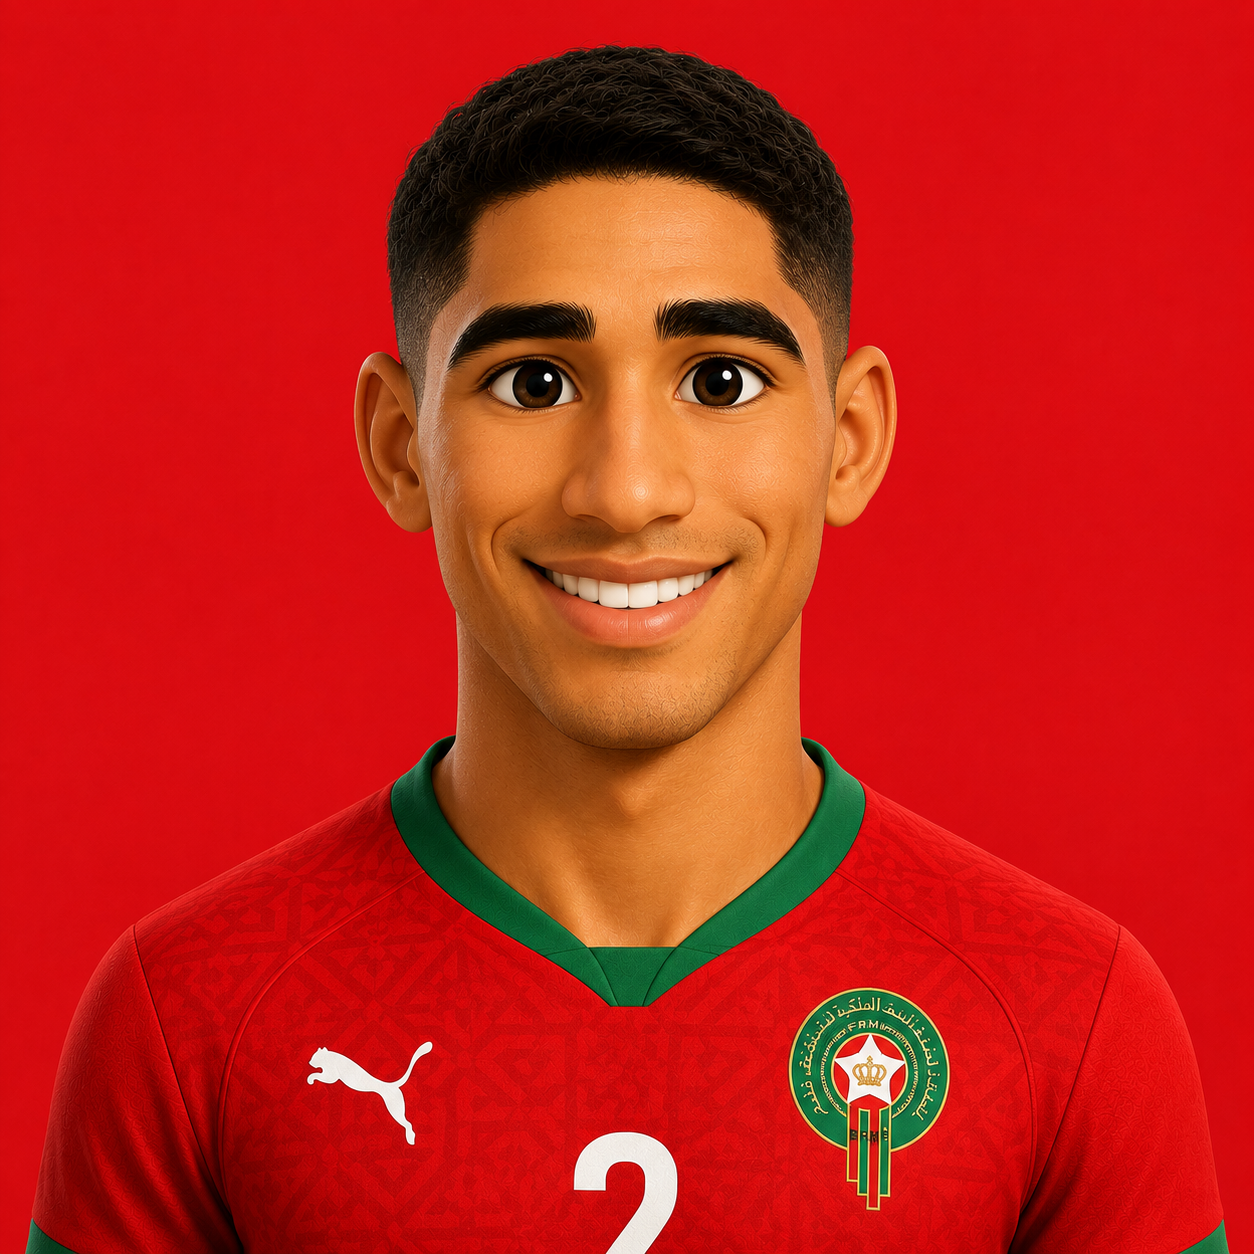
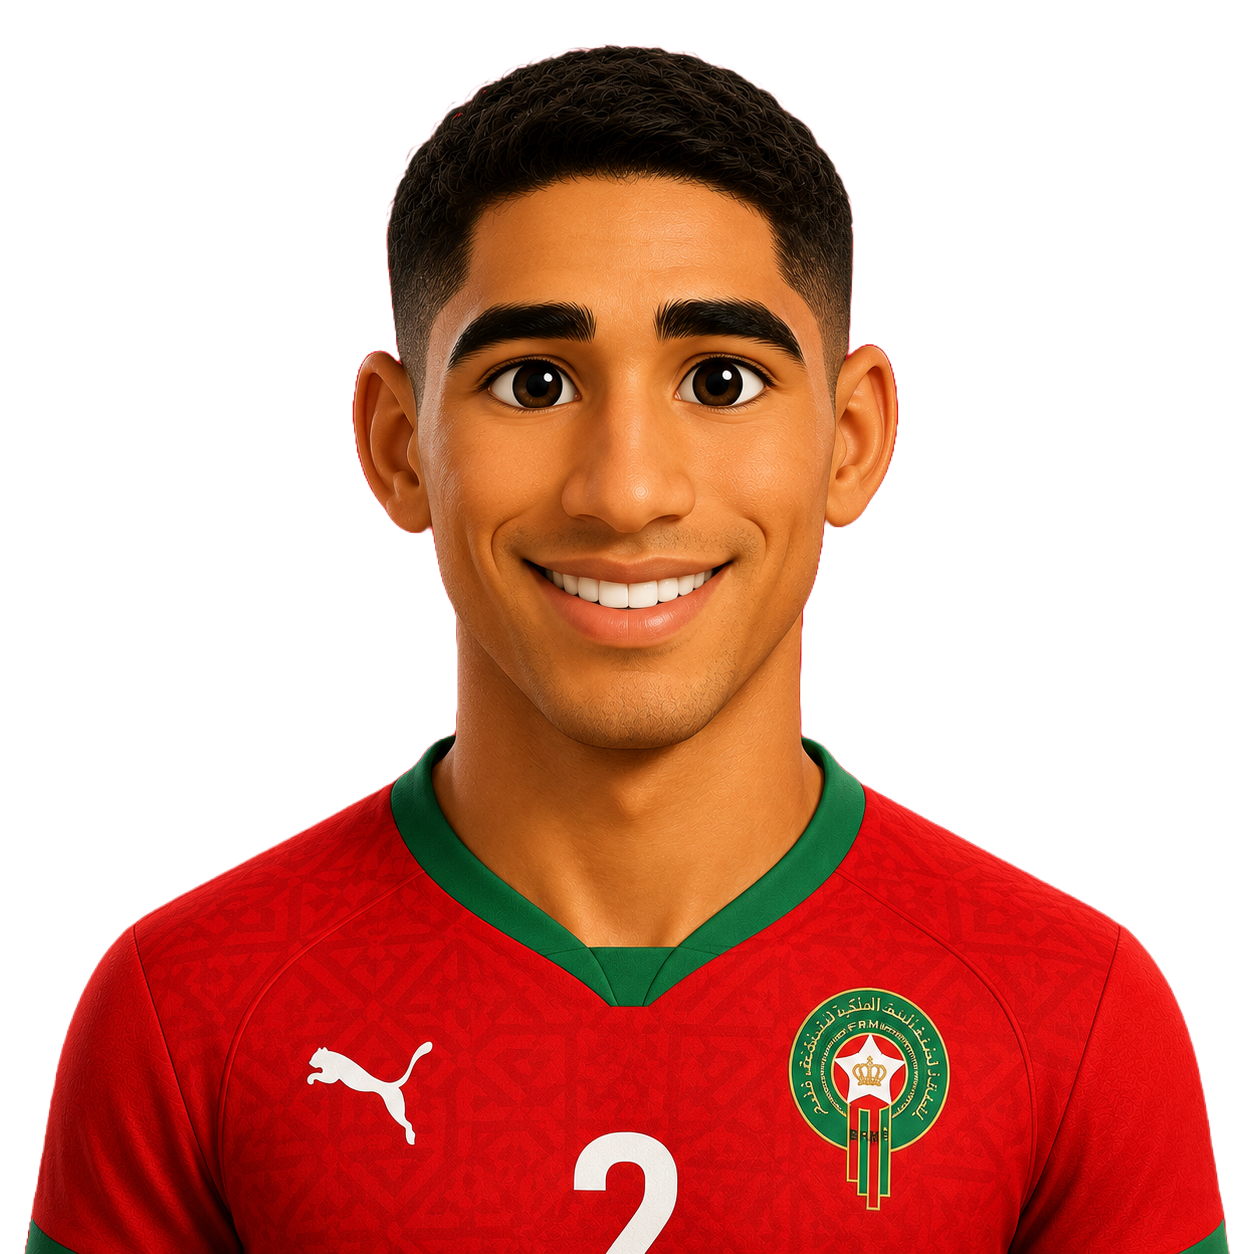
fix : 이미지 저장 문제 수정

diff --git a/src/components/ResultCard.jsx b/src/components/ResultCard.jsx
@@ -19,7 +19,9 @@ import { defaultResultCopy, generateResultCopy } from '../utils/claudeApi.js';
 
 function isMobile() {
   if (typeof navigator === 'undefined') return false;
-  return /Android|webOS|iPhone|iPad|iPod|Opera Mini|IEMobile/i.test(navigator.userAgent);
+  return /Android|webOS|iPhone|iPad|iPod|Opera Mini|IEMobile/i.test(
+    navigator.userAgent
+  );
 }
 
 function waitForImages(root) {
@@ -31,8 +33,8 @@ function waitForImages(root) {
         : new Promise((resolve) => {
             img.addEventListener('load', resolve, { once: true });
             img.addEventListener('error', resolve, { once: true });
-          }),
-    ),
+          })
+    )
   );
 }
 
@@ -40,8 +42,12 @@ export default function ResultCard({ result, answers, onRestart }) {
   const { faceMatch, styleMatch, isPerfectMatch, userPhotoUrl } = result;
   const nickname = TYPE_NICKNAME[styleMatch.type] || '월드컵의 별';
   const theme = TYPE_THEME[styleMatch.type] || TYPE_THEME.midfielder;
-  const heroGradient = COUNTRY_THEME[styleMatch.player.country] || theme.gradient;
-  const hashtags = useMemo(() => getFunHashtags(styleMatch.player), [styleMatch.player]);
+  const heroGradient =
+    COUNTRY_THEME[styleMatch.player.country] || theme.gradient;
+  const hashtags = useMemo(
+    () => getFunHashtags(styleMatch.player),
+    [styleMatch.player]
+  );
   const cardRef = useRef(null);
   const [busy, setBusy] = useState(null);
   const [previewUrl, setPreviewUrl] = useState(null);
@@ -55,12 +61,13 @@ export default function ResultCard({ result, answers, onRestart }) {
 
   const abilities = useMemo(
     () => computeAbilities(answers.map((a) => a.type)),
-    [answers],
+    [answers]
   );
 
   const fallbackCopy = useMemo(
-    () => defaultResultCopy({ faceMatch, styleMatch, nickname, isPerfectMatch }),
-    [faceMatch, styleMatch, nickname, isPerfectMatch],
+    () =>
+      defaultResultCopy({ faceMatch, styleMatch, nickname, isPerfectMatch }),
+    [faceMatch, styleMatch, nickname, isPerfectMatch]
   );
   const [copy, setCopy] = useState(fallbackCopy);
   const [loadingCopy, setLoadingCopy] = useState(false);
@@ -90,25 +97,31 @@ export default function ResultCard({ result, answers, onRestart }) {
 
   const captureImage = async () => {
     if (!cardRef.current) return null;
-    // 이스터에그를 캡처 시 펼쳐서 함께 담기
+
+    // 캡처 모드 ON — CSS mask-image 등 html-to-image 비호환 효과 비활성화
+    cardRef.current.dataset.capturing = 'true';
     const wasRevealed = easterRevealed;
     if (faceMatch && !wasRevealed) setEasterRevealed(true);
     await new Promise((r) => setTimeout(r, 30));
     await waitForImages(cardRef.current);
     await new Promise((r) => setTimeout(r, 80));
     const { toBlob } = await import('html-to-image');
-    await toBlob(cardRef.current, {
-      pixelRatio: 1,
-      cacheBust: false,
-      backgroundColor: '#0a0e1a',
-    });
-    const blob = await toBlob(cardRef.current, {
-      pixelRatio: 2,
-      cacheBust: false,
-      backgroundColor: '#0a0e1a',
-    });
-    if (!wasRevealed) setEasterRevealed(false);
-    return blob;
+    try {
+      await toBlob(cardRef.current, {
+        pixelRatio: 1,
+        cacheBust: false,
+        backgroundColor: '#0a0e1a',
+      });
+      const blob = await toBlob(cardRef.current, {
+        pixelRatio: 2,
+        cacheBust: false,
+        backgroundColor: '#0a0e1a',
+      });
+      return blob;
+    } finally {
+      if (cardRef.current) delete cardRef.current.dataset.capturing;
+      if (!wasRevealed) setEasterRevealed(false);
+    }
   };
 
   const downloadBlob = (blob, filename) => {
@@ -169,7 +182,9 @@ export default function ResultCard({ result, answers, onRestart }) {
         }
       }
       downloadBlob(blob, filename);
-      alert('이 기기에서는 직접 공유가 안 돼서 이미지로 저장했어요. 사진앱에서 인스타 스토리로 올려보세요!');
+      alert(
+        '이 기기에서는 직접 공유가 안 돼서 이미지로 저장했어요. 사진앱에서 인스타 스토리로 올려보세요!'
+      );
     } catch (e) {
       alert('공유 실패: ' + (e.message || e));
     } finally {
@@ -182,7 +197,9 @@ export default function ResultCard({ result, answers, onRestart }) {
       <div className="result-card" ref={cardRef}>
         {/* ===== HERO 캐릭터 카드 ===== */}
         <div className="hero-card" style={{ background: heroGradient }}>
-          <div className="hero-card-watermark">{styleMatch.player.countryFlag}</div>
+          <div className="hero-card-watermark">
+            {styleMatch.player.countryFlag}
+          </div>
 
           {/* AI 일러스트 (있는 선수만 자동 등장) */}
           <PlayerIllustration
@@ -193,11 +210,16 @@ export default function ResultCard({ result, answers, onRestart }) {
 
           <h1 className="hero-card-nickname">"{nickname}"</h1>
           <div className="hero-card-player-line">
-            {styleMatch.player.country} 국대 <b>{styleMatch.player.name}</b> 타입
+            {styleMatch.player.country} 국대 <b>{styleMatch.player.name}</b>{' '}
+            타입
           </div>
 
           {/* 실제 선수 사진 — 일러스트 있으면 검증용 작은 원, 없으면 메인 비주얼 */}
-          <div className={`hero-card-character ${hasIllustration ? 'is-small' : 'is-large'}`}>
+          <div
+            className={`hero-card-character ${
+              hasIllustration ? 'is-small' : 'is-large'
+            }`}
+          >
             <PlayerAvatar
               player={styleMatch.player}
               size={hasIllustration ? 'md' : 'hero'}
@@ -229,7 +251,9 @@ export default function ResultCard({ result, answers, onRestart }) {
         {/* ===== 카피 ===== */}
         <div className="result-analysis-label">✨ 당신을 위한 스페셜 분석</div>
         <p className="result-description">
-          {loadingCopy && copy === fallbackCopy ? '결과 설명을 만드는 중...' : copy}
+          {loadingCopy && copy === fallbackCopy
+            ? '결과 설명을 만드는 중...'
+            : copy}
         </p>
 
         {/* ===== 이스터에그 (탭하면 펼쳐짐) ===== */}
@@ -241,11 +265,11 @@ export default function ResultCard({ result, answers, onRestart }) {
           >
             <div className="easter-egg-head">
               <span className="easter-egg-icon">🔮</span>
-              <span className="easter-egg-title">
-                내 관상 속 숨겨진 닮은꼴 선수
-              </span>
+              <span className="easter-egg-title">숨겨진 닮은꼴 선수</span>
               <span
-                className={`easter-egg-cta ${easterRevealed ? '' : 'easter-egg-cta-pulse'}`}
+                className={`easter-egg-cta ${
+                  easterRevealed ? '' : 'easter-egg-cta-pulse'
+                }`}
               >
                 {easterRevealed ? '닫기 ▲' : '👇 탭!'}
               </span>
@@ -277,21 +301,40 @@ export default function ResultCard({ result, answers, onRestart }) {
       </div>
 
       <div className="result-actions">
-        <button className="btn-primary" onClick={handleShare} disabled={busy !== null}>
+        <button
+          className="btn-primary"
+          onClick={handleShare}
+          disabled={busy !== null}
+        >
           {busy === 'share' ? '준비 중...' : '📸 인스타 공유하기'}
         </button>
-        <button className="btn-ghost" onClick={handleSave} disabled={busy !== null}>
+        <button
+          className="btn-ghost"
+          onClick={handleSave}
+          disabled={busy !== null}
+        >
           {busy === 'save' ? '저장 중...' : ' 📸 카드 저장하기'}
         </button>
-        <button className="btn-ghost" onClick={onRestart} disabled={busy !== null}>
+        <button
+          className="btn-ghost"
+          onClick={onRestart}
+          disabled={busy !== null}
+        >
           🔄 다시 하기
         </button>
       </div>
 
       {previewUrl && (
         <div className="image-preview-modal" onClick={closePreview}>
-          <div className="image-preview-inner" onClick={(e) => e.stopPropagation()}>
-            <img src={previewUrl} alt="결과 이미지" className="image-preview-img" />
+          <div
+            className="image-preview-inner"
+            onClick={(e) => e.stopPropagation()}
+          >
+            <img
+              src={previewUrl}
+              alt="결과 이미지"
+              className="image-preview-img"
+            />
             <p className="image-preview-hint">
               👇 이미지를 <b>길게 눌러</b> "사진에 저장"을 선택하세요
             </p>

diff --git a/src/styles/global.css b/src/styles/global.css
@@ -477,6 +477,12 @@ button {
   /* === /[옵션 B] === */
 }
 
+/* 캡처 중에는 mask-image 비활성화 (html-to-image 비호환) */
+.result-card[data-capturing='true'] .hero-illustration {
+  -webkit-mask-image: none;
+  mask-image: none;
+}
+
 /* 실제 선수 사진 영역 — 일러스트 유무에 따라 사이즈 바뀜 */
 .hero-card-character {
   position: relative;
